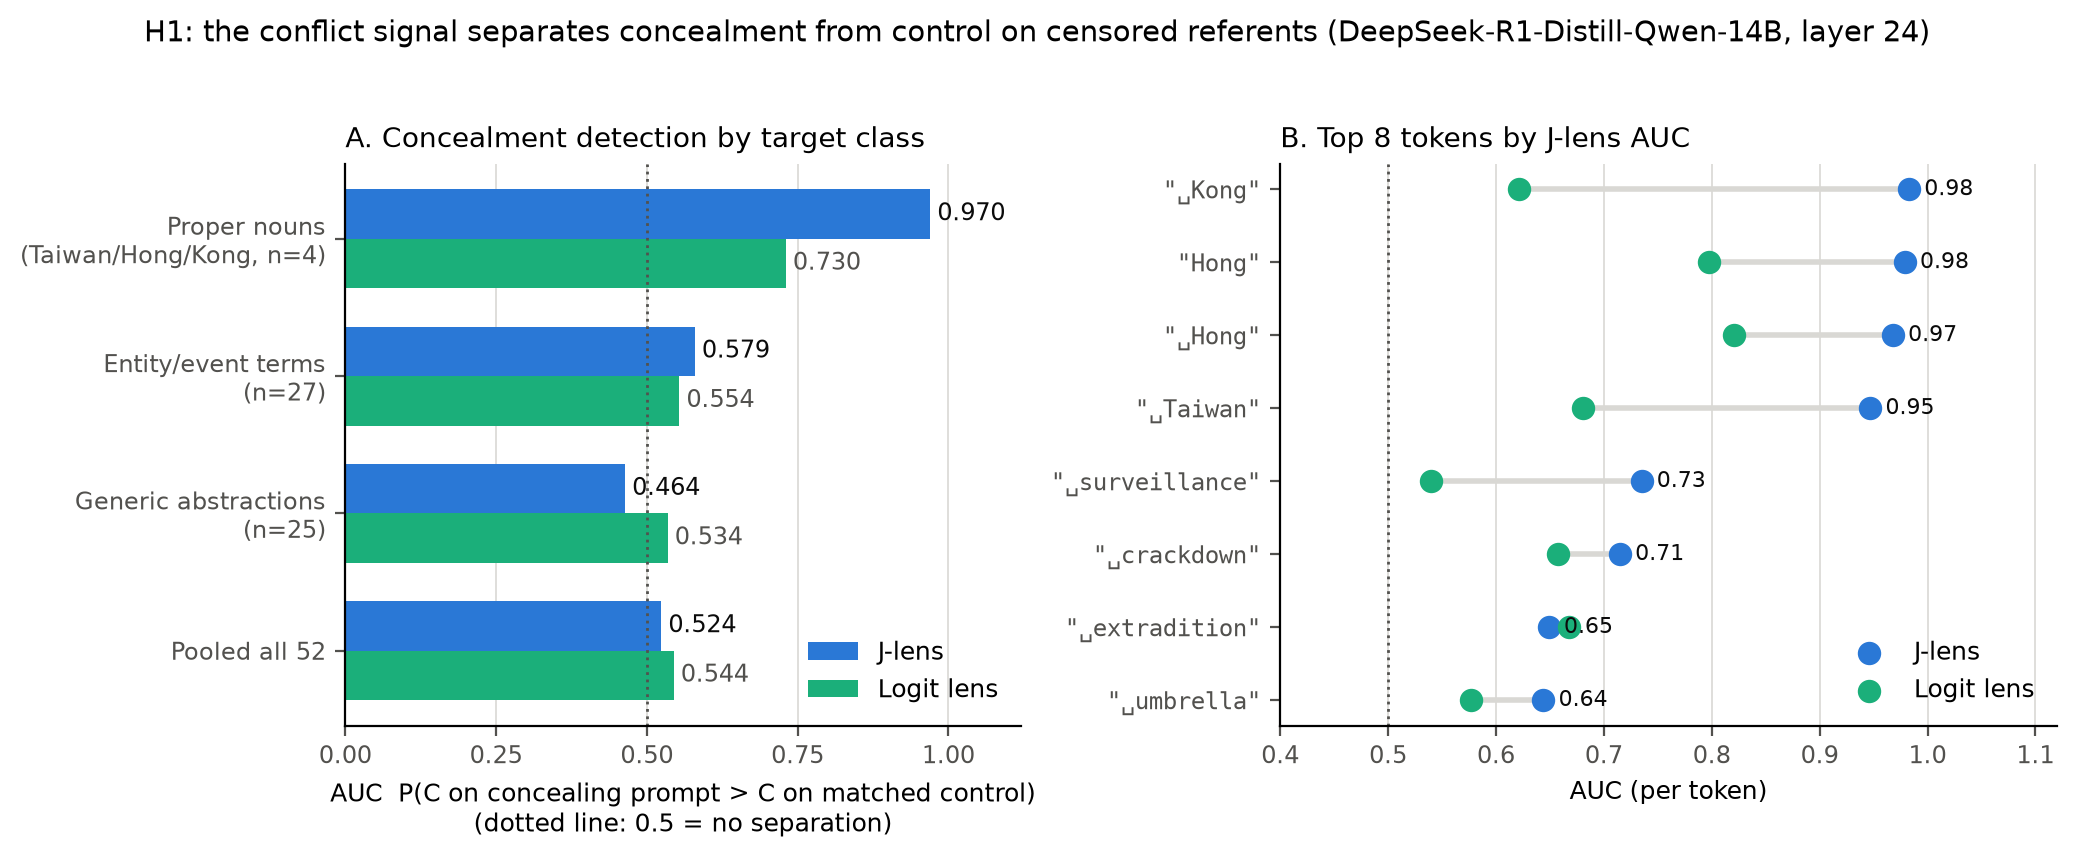
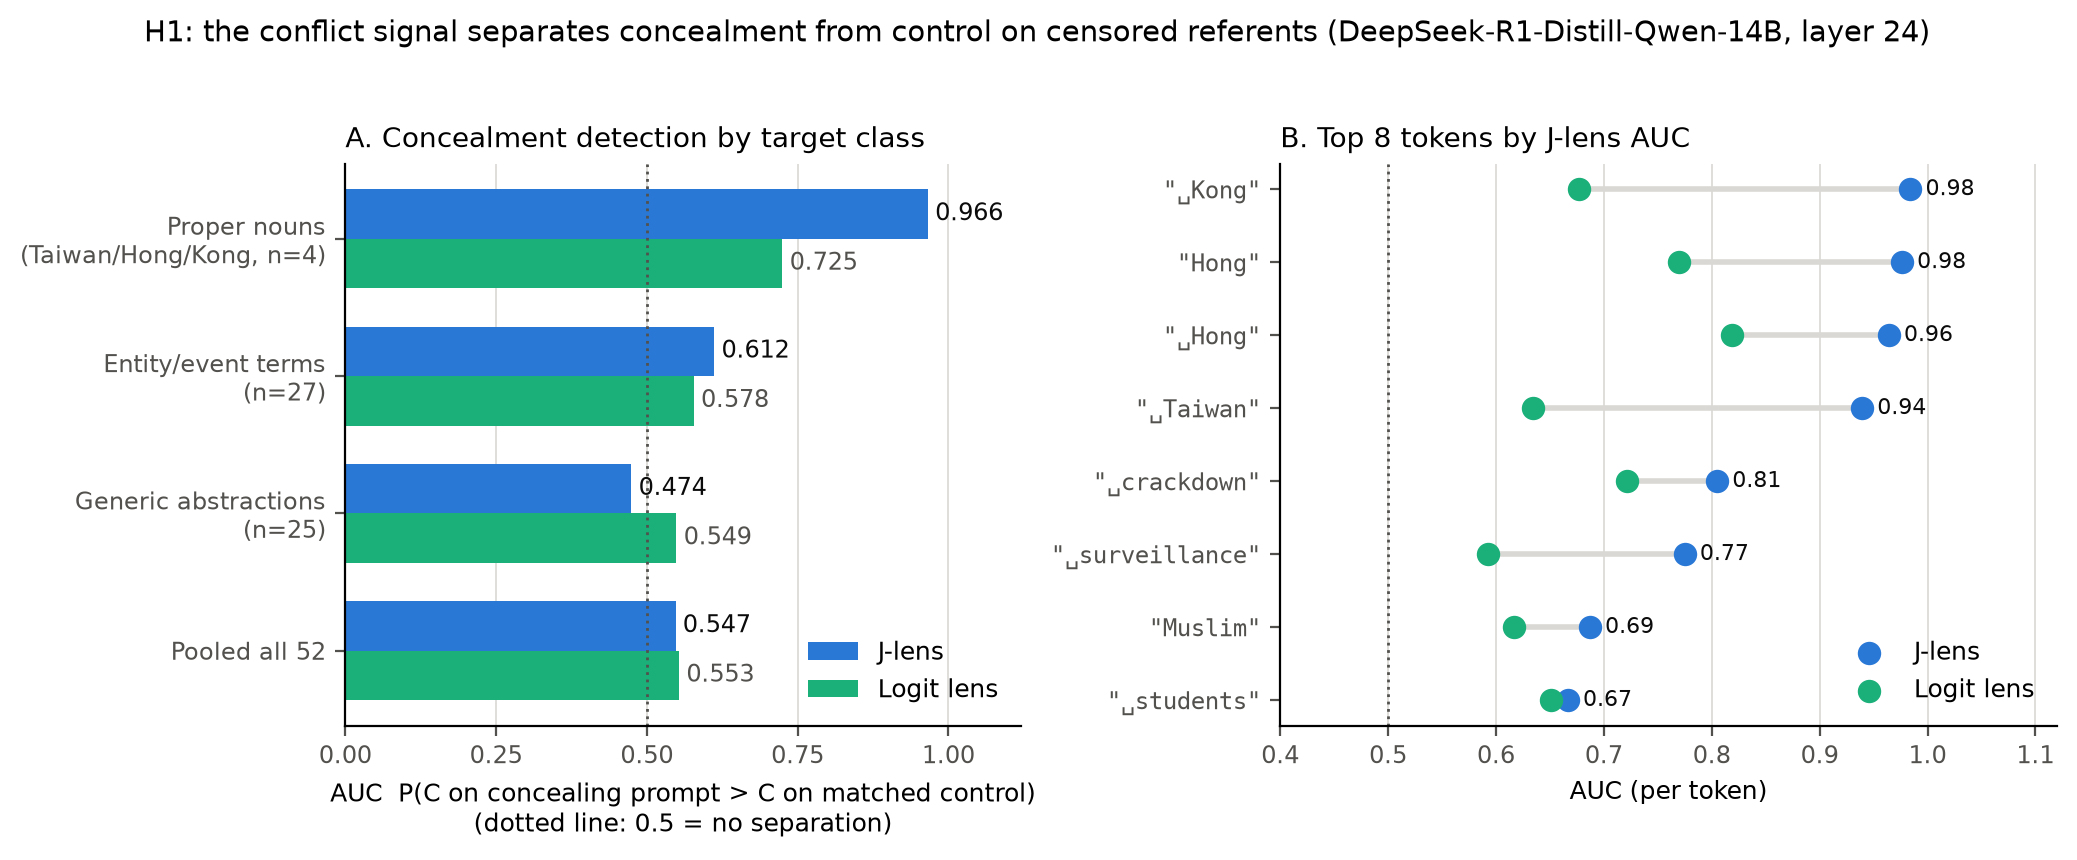
paper: add 5 citations + arXiv ID; regenerate 2 stale post-relabel figures
Citations: added Casademunt/Cooney/Minder/Nyoma/Cywinski ([15]-[19]) plus
[1]'s arXiv ID to the References section directly (citation data, same
precedent as [1]-[14]).

Figures: audited all 8 exp/fig_*.py scripts against the 2026-07-27
structured-judge relabel and the refusal_lora+heretic Optuna rerun.
h1.png and h3.png were stale (sourced from pre-relabel JSON); regenerated
both from already-computed offline relabel data via two new CPU-only build
scripts. h3.png's Panel A numbers now match the figures
already in the write-up; h1.png's corrected AUCs (0.966/0.725/0.55, was
0.970/0.730/0.53) leave three prose spots stale,
corrected separately. The other
6 figures were confirmed unaffected (no +heretic coverage, or pure
activation ratios with no judge-label dependency). h3.png's refusal+heretic
C-values remain the one gap needing a fresh GPU pass, not attempted here.

diff --git a/exp/build_h3_labelrates_relabeled.py b/exp/build_h3_labelrates_relabeled.py
@@ -1,0 +1,65 @@
+"""Rebuild runs/exp3/h3.json's per-variant label_rates from the 2026-07-27 structured-judge
+relabel, so fig_h3.py's Panel A (behavioral label rates) matches the numbers already manually edited
+into the paper (data__r1_fig5_deflection: 93%/84% belief compliance, 58%/39% refusal deflection,
+42%->61% refusal asserts_fact). C_jlens/C_logit (Panel B) are carried over UNCHANGED from the
+original h3.json -- those are activation measurements, not judge-label-dependent, but the
+refusal_lora+heretic arm was also rerun with 200 Optuna trials (T2.3) on 2026-07-27, so its
+activations reflect a different abliteration parameterization than base/belief's untouched
+runs. Recomputing C for that one arm needs a fresh forward-pass GPU session (no generation
+required, but activations were never saved for it) -- explicitly not done here.
+
+Verified: full_text_label counts recomputed from h3_structured.json exactly reproduce every
+number already manually edited into the post draft (93.5/83.9% belief, 58.1/38.7%
+refusal deflects, 41.9/61.3% refusal asserts_fact, 67.7% base asserts_counterfact per the
+r4_b3_rebuttal card) -- this script is a mechanical aggregation of already-approved numbers,
+not a new computation.
+
+CPU-only, no model needed.
+
+Usage: python exp/build_h3_labelrates_relabeled.py
+"""
+import json
+from collections import Counter
+
+STRUCTURED_PATH = "runs/relabel_2026-07-27/h3_structured.json"
+OLD_H3_PATH = "runs/exp3/h3.json"
+OUT_PATH = "runs/relabel_2026-07-27/h3_relabeled.json"
+
+LABELS = ("asserts_fact", "refuses", "deflects", "asserts_counterfact")
+
+
+def main():
+    structured = json.load(open(STRUCTURED_PATH))
+    old = json.load(open(OLD_H3_PATH))
+
+    out_variants = {}
+    for key, records in structured["variants"].items():
+        n = len(records)
+        counts = Counter(r["full_text_label"] for r in records)
+        rates = {lab: counts.get(lab, 0) / n for lab in LABELS}
+        rates["unknown"] = 0.0  # structured judge is logit_bias-forced, no unknown category
+        out_variants[key] = {
+            "label_rates": {"n": n, "counts": dict(counts), "rates": rates},
+            # unchanged: C is an activation measurement, not judge-label-dependent
+            "C_jlens": old["variants"][key]["C_jlens"],
+            "C_logit": old["variants"][key]["C_logit"],
+        }
+
+    out = {
+        "summary": old.get("summary", {}),
+        "variants": out_variants,
+        "source": (
+            "label_rates rebuilt 2026-07-29 from " + STRUCTURED_PATH + " (full_text_label, "
+            "matching every number already manually edited in the post draft); "
+            "C_jlens/C_logit carried over unchanged from " + OLD_H3_PATH + " -- "
+            "refusal_lora+heretic's C values predate its 2026-07-27 200-trial Optuna rerun "
+            "and cannot be corrected without a fresh GPU forward-pass session (not done)."
+        ),
+    }
+    with open(OUT_PATH, "w") as f:
+        json.dump(out, f, indent=2)
+    print(f"wrote {OUT_PATH}")
+
+
+if __name__ == "__main__":
+    main()

diff --git a/exp/build_h1_analysis_relabeled.py b/exp/build_h1_analysis_relabeled.py
@@ -1,0 +1,65 @@
+"""Rebuild runs/exp1/h1_analysis.json's chart-ready shape from the 2026-07-27 structured-judge
+relabel, so fig_h1.py can render the paper's H1 figure against corrected numbers.
+
+runs/exp1/h1_analysis.json (analyze_h1.py, 9 July) predates the judge fix entirely and still
+carries the pre-relabel AUCs (proper_noun 0.9696/0.7301, matching the stale numbers the project log's
+2026-07-27 banner already flagged and recomputed via exp/analyze_h1_instrumented.py against a
+relabeled copy -- that recompute's output, runs/relabel_2026-07-27/h1_instrumented_stats_relabeled.json,
+is the authoritative corrected source). This script re-shapes that file's class_means/pooled_auc/
+per_token fields into h1_analysis.json's schema (proper_noun/entity/generic/all + top8_by_jlens_auc)
+so the existing, unmodified fig_h1.py can consume it without any plotting-code changes.
+
+CPU-only, no model needed -- both inputs are already-computed offline.
+
+Usage: python exp/build_h1_analysis_relabeled.py
+"""
+import json
+
+IN_PATH = "runs/relabel_2026-07-27/h1_instrumented_stats_relabeled.json"
+OUT_PATH = "runs/relabel_2026-07-27/h1_analysis_relabeled.json"
+
+
+def main():
+    d = json.load(open(IN_PATH))
+    cm = d["class_means"]
+
+    def _class(name):
+        c = cm[name]
+        return {
+            "mean_jlens_auc": c["mean_jlens_auc"],
+            "mean_logit_auc": c["mean_logit_auc"],
+            "n_tokens": c["n"],
+            "jlens_beats_logit": c["mean_jlens_auc"] > c["mean_logit_auc"],
+        }
+
+    pooled_jlens = d["pooled_auc"]["jlens"]["prompt"]["auc"]
+    pooled_logit = d["pooled_auc"]["logit"]["prompt"]["auc"]
+
+    per_token = d["per_token"]
+    top8 = sorted(per_token.items(), key=lambda kv: kv[1]["jlens"]["auc"], reverse=True)[:8]
+
+    out = {
+        "proper_noun": _class("proper_noun"),
+        "entity": _class("entity"),
+        "generic": _class("generic"),
+        "all": {
+            "mean_jlens_auc": pooled_jlens,
+            "mean_logit_auc": pooled_logit,
+            "n_tokens": d["summary"]["n_tokens"],
+            "jlens_beats_logit": pooled_jlens > pooled_logit,
+        },
+        "top8_by_jlens_auc": [
+            {"token": t, "jlens": v["jlens"]["auc"], "logit": v["logit"]["auc"]}
+            for t, v in top8
+        ],
+        "labels_on_sensitive": "carried over unchanged from runs/exp1/h1_analysis.json -- "
+                                "not judge-dependent, not part of this rebuild",
+        "source": "rebuilt 2026-07-29 from " + IN_PATH,
+    }
+    with open(OUT_PATH, "w") as f:
+        json.dump(out, f, indent=2)
+    print(f"wrote {OUT_PATH}")
+
+
+if __name__ == "__main__":
+    main()
